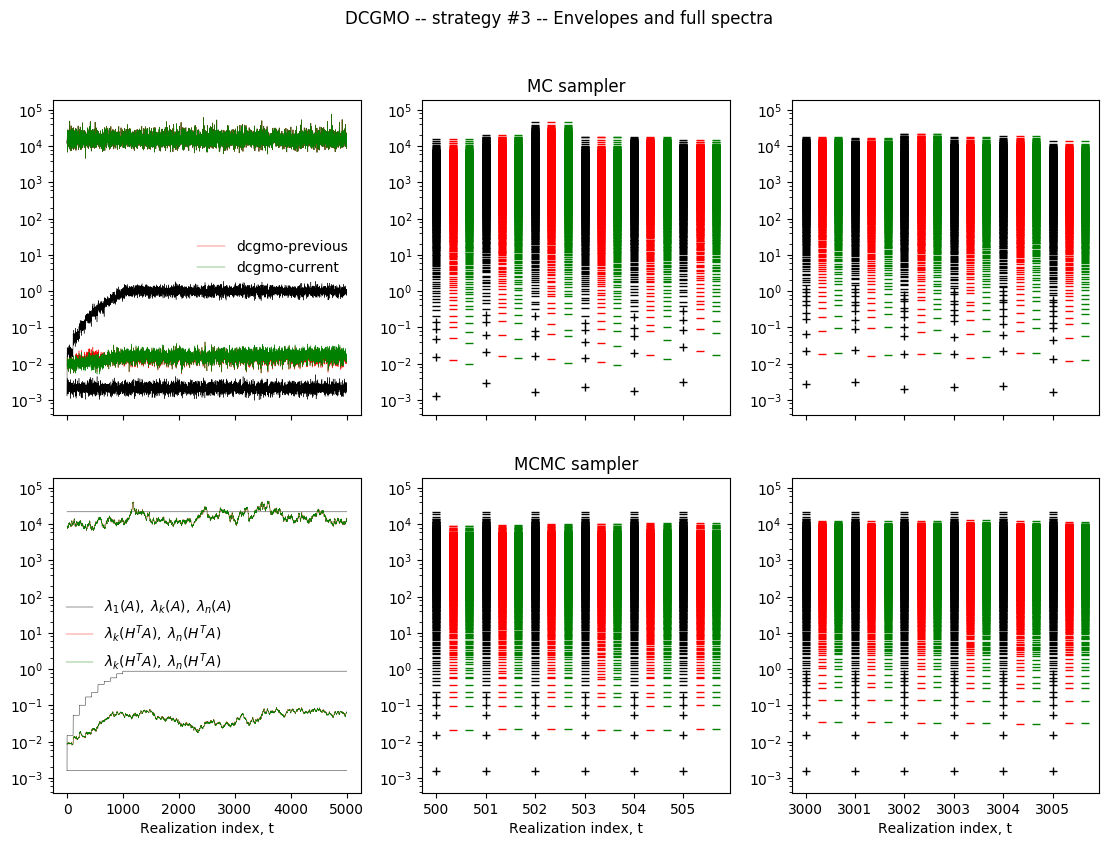
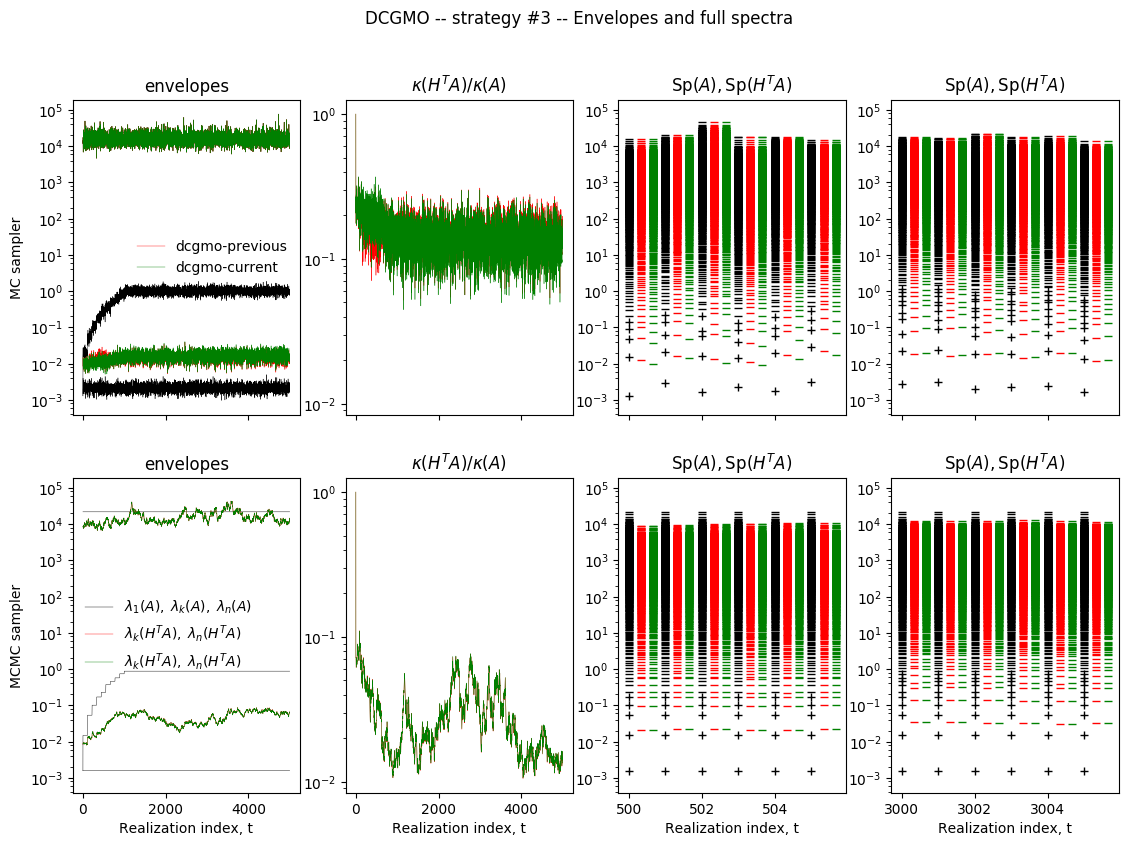
first-commit

diff --git a/examples/example05_recycler_plot.py b/examples/example05_recycler_plot.py
@@ -43,70 +43,93 @@ def plot(smp=None, smp_SpA=None, dcgmo_SpHtA=None, dcgmo_kdim=None, case=None):
     smp, smp_SpA, dcgmo_SpHtA, dcgmo_kdim = load_data(case)
 
   n = smp["mc"].n
-  fig, ax = pl.subplots(2, 3, figsize=(13.5,9), sharex="col")
+  fig, ax = pl.subplots(2, 4, figsize=(13.5,9), sharex="col")
   strategy_name = {"a":"strategy #1", "b":"strategy #2", "c":"strategy #3"}
   fig.suptitle("DCGMO -- %s -- Envelopes and full spectra" %strategy_name[case])
   # Enveloppes
-  ax[0,1].set_title("MC sampler")
+  ax[0,0].set_ylabel("MC sampler")
+  ax[0,0].set_title("envelopes")
   _dcgmo = ("mc", "previous", 0)
   SpA_0, SpA_k, SpA_n = get_envelopes_A(smp_SpA["mc"], dcgmo_kdim[_dcgmo])
+  cond_A = np.array(SpA_n)/np.array(SpA_0)
   ax[0,0].semilogy(SpA_0, "k", lw=lw)
   ax[0,0].semilogy(SpA_k, "k", lw=lw)
   ax[0,0].semilogy(SpA_n, "k", lw=lw)
   SpHtA_k, SpHtA_n = get_envelopes_HtA(dcgmo_SpHtA[_dcgmo], dcgmo_kdim[_dcgmo])
+  cond_HtA = np.concatenate(([cond_A[0]],np.array(SpHtA_n[1:])/np.array(SpHtA_k[1:])))
   ax[0,0].semilogy(SpHtA_k, "r", lw=lw, label="dcgmo-previous")
   ax[0,0].semilogy(SpHtA_n, "r", lw=lw)
+  ax[0,1].set_title(r"$\kappa(H^TA)/\kappa(A)$")
+  ax[0,1].semilogy(cond_HtA/cond_A, "r", lw=lw)
   _dcgmo = ("mc", "current", 0)
   SpHtA_k, SpHtA_n = get_envelopes_HtA(dcgmo_SpHtA[_dcgmo], dcgmo_kdim[_dcgmo])
+  cond_HtA = np.concatenate(([cond_A[0]],np.array(SpHtA_n[1:])/np.array(SpHtA_k[1:])))
   ax[0,0].semilogy(SpHtA_k, "g", lw=lw, label="dcgmo-current")
   ax[0,0].semilogy(SpHtA_n, "g", lw=lw)
+  ax[0,1].set_title(r"$\kappa(H^TA)/\kappa(A)$")
+  ax[0,1].semilogy(cond_HtA/cond_A, "g", lw=lw)
   ax[0,0].legend(frameon=False)
   # Snapshot #1
+  ax[0,2].set_title(r"$\mathrm{Sp}(A), \mathrm{Sp}(H^TA)$")
   for i in range(500,506):
-    kdim = dcgmo_kdim[("mc", "previous", 0)][i]
-    ax[0,1].semilogy((n-kdim)*[i], smp_SpA["mc"][i][kdim:], "k_", markersize=6)
-    ax[0,1].semilogy(kdim*[i], smp_SpA["mc"][i][:kdim], "k+", markersize=6)
-    ax[0,1].semilogy((n-kdim)*[i+.33], dcgmo_SpHtA[("mc", "previous", 0)][i][kdim:], "r_", markersize=6)
-    ax[0,1].semilogy((n-kdim)*[i+.66], dcgmo_SpHtA[("mc", "current", 0)][i][kdim:], "g_", markersize=6)
-  # Snapshot #2
-  for i in range(3000,3006):
     kdim = dcgmo_kdim[("mc", "previous", 0)][i]
     ax[0,2].semilogy((n-kdim)*[i], smp_SpA["mc"][i][kdim:], "k_", markersize=6)
     ax[0,2].semilogy(kdim*[i], smp_SpA["mc"][i][:kdim], "k+", markersize=6)
     ax[0,2].semilogy((n-kdim)*[i+.33], dcgmo_SpHtA[("mc", "previous", 0)][i][kdim:], "r_", markersize=6)
     ax[0,2].semilogy((n-kdim)*[i+.66], dcgmo_SpHtA[("mc", "current", 0)][i][kdim:], "g_", markersize=6)
-  ax[0,1].set_ylim(ax[0,0].get_ylim()); ax[0,2].set_ylim(ax[0,0].get_ylim())  
+  # Snapshot #2
+  ax[0,3].set_title(r"$\mathrm{Sp}(A), \mathrm{Sp}(H^TA)$")
+  for i in range(3000,3006):
+    kdim = dcgmo_kdim[("mc", "previous", 0)][i]
+    ax[0,3].semilogy((n-kdim)*[i], smp_SpA["mc"][i][kdim:], "k_", markersize=6)
+    ax[0,3].semilogy(kdim*[i], smp_SpA["mc"][i][:kdim], "k+", markersize=6)
+    ax[0,3].semilogy((n-kdim)*[i+.33], dcgmo_SpHtA[("mc", "previous", 0)][i][kdim:], "r_", markersize=6)
+    ax[0,3].semilogy((n-kdim)*[i+.66], dcgmo_SpHtA[("mc", "current", 0)][i][kdim:], "g_", markersize=6)
+  ax[0,2].set_ylim(ax[0,0].get_ylim()); ax[0,3].set_ylim(ax[0,0].get_ylim())  
 
   # Enveloppes
-  ax[1,1].set_title("MCMC sampler")
+  ax[1,0].set_ylabel("MCMC sampler")
+  ax[1,0].set_title("envelopes")
   SpA_0, SpA_k, SpA_n = get_envelopes_A(smp_SpA["mcmc"], dcgmo_kdim[_dcgmo])
+  cond_A = np.array(SpA_n)/np.array(SpA_0)
   ax[1,0].semilogy(SpA_0, "k", lw=lw, label=r"$\lambda_{1}(A),\;\lambda_{k}(A),\;\lambda_{n}(A)$")
   ax[1,0].semilogy(SpA_k, "k", lw=lw)
   ax[1,0].semilogy(SpA_n, "k", lw=lw)
   _dcgmo = ("mcmc", "previous", 0)
   SpHtA_k, SpHtA_n = get_envelopes_HtA(dcgmo_SpHtA[_dcgmo], dcgmo_kdim[_dcgmo])
+  cond_HtA = np.concatenate(([cond_A[0]],np.array(SpHtA_n[1:])/np.array(SpHtA_k[1:])))
   ax[1,0].semilogy(SpHtA_k, "r", lw=lw, label=r"$\lambda_{k}(H^TA),\;\lambda_{n}(H^TA)$")
   ax[1,0].semilogy(SpHtA_n, "r", lw=lw)
+  ax[1,1].set_title(r"$\kappa(H^TA)/\kappa(A)$")
+  ax[1,1].semilogy(cond_HtA/cond_A, "r", lw=lw)
   _dcgmo = ("mcmc", "current", 0)
   SpHtA_k, SpHtA_n = get_envelopes_HtA(dcgmo_SpHtA[_dcgmo], dcgmo_kdim[_dcgmo])
   ax[1,0].semilogy(SpHtA_k, "g", lw=lw, label=r"$\lambda_{k}(H^TA),\;\lambda_{n}(H^TA)$")
   ax[1,0].semilogy(SpHtA_n, "g", lw=lw)
+  cond_HtA = np.concatenate(([cond_A[0]],np.array(SpHtA_n[1:])/np.array(SpHtA_k[1:])))
+  ax[1,1].semilogy(cond_HtA/cond_A, "g", lw=lw)
   ax[1,0].legend(frameon=False)
   # Snapshot #1
+  ax[1,2].set_title(r"$\mathrm{Sp}(A), \mathrm{Sp}(H^TA)$")
   for i in range(500,506):
-    kdim = dcgmo_kdim[("mcmc", "previous", 0)][i]
-    ax[1,1].semilogy((n-kdim)*[i], smp_SpA["mcmc"][i][kdim:], "k_", markersize=6)
-    ax[1,1].semilogy(kdim*[i], smp_SpA["mcmc"][i][:kdim], "k+", markersize=6)
-    ax[1,1].semilogy((n-kdim)*[i+.33], dcgmo_SpHtA[("mcmc", "previous", 0)][i][kdim:], "r_", markersize=6)
-    ax[1,1].semilogy((n-kdim)*[i+.66], dcgmo_SpHtA[("mcmc", "current", 0)][i][kdim:], "g_", markersize=6)
-  # Snapshot #2
-  for i in range(3000,3006):
     kdim = dcgmo_kdim[("mcmc", "previous", 0)][i]
     ax[1,2].semilogy((n-kdim)*[i], smp_SpA["mcmc"][i][kdim:], "k_", markersize=6)
     ax[1,2].semilogy(kdim*[i], smp_SpA["mcmc"][i][:kdim], "k+", markersize=6)
     ax[1,2].semilogy((n-kdim)*[i+.33], dcgmo_SpHtA[("mcmc", "previous", 0)][i][kdim:], "r_", markersize=6)
     ax[1,2].semilogy((n-kdim)*[i+.66], dcgmo_SpHtA[("mcmc", "current", 0)][i][kdim:], "g_", markersize=6)
-  ax[1,0].set_ylim(ax[0,0].get_ylim()); ax[1,1].set_ylim(ax[0,0].get_ylim()); ax[1,2].set_ylim(ax[0,0].get_ylim())
-  for j in range(3):
+  # Snapshot #2
+  ax[1,3].set_title(r"$\mathrm{Sp}(A), \mathrm{Sp}(H^TA)$")
+  for i in range(3000,3006):
+    kdim = dcgmo_kdim[("mcmc", "previous", 0)][i]
+    ax[1,3].semilogy((n-kdim)*[i], smp_SpA["mcmc"][i][kdim:], "k_", markersize=6)
+    ax[1,3].semilogy(kdim*[i], smp_SpA["mcmc"][i][:kdim], "k+", markersize=6)
+    ax[1,3].semilogy((n-kdim)*[i+.33], dcgmo_SpHtA[("mcmc", "previous", 0)][i][kdim:], "r_", markersize=6)
+    ax[1,3].semilogy((n-kdim)*[i+.66], dcgmo_SpHtA[("mcmc", "current", 0)][i][kdim:], "g_", markersize=6)
+  ax[1,0].set_ylim(ax[0,0].get_ylim()); ax[1,2].set_ylim(ax[0,0].get_ylim()); ax[1,3].set_ylim(ax[0,0].get_ylim())
+  ylim0 = ax[0,1].get_ylim(); ylim1 = ax[1,1].get_ylim()
+  ylim = (min(ylim0[0], ylim1[0]), max(ylim0[1], ylim1[1]))
+  ax[0,1].set_ylim(ylim); ax[1,1].set_ylim(ylim)
+  for j in range(4):
     ax[1,j].set_xlabel("Realization index, t")
   pl.savefig(figures_path+"example05_recycler_"+case+".png", bbox_inches='tight')
+  #pl.show()

diff --git a/README.tex.md b/README.tex.md
@@ -616,7 +616,7 @@ while (smp["mcmc"].cnt_accepted_proposals <= nsmp):
           dcgmo_SpHtA[_dcgmo] += [np.array(smp["mcmc"].n*[None])]
 
     print("%d/%d" %(smp["mcmc"].cnt_accepted_proposals+1, nsmp))
-
+ 
 save_data(smp, smp_SpA, dcgmo_SpHtA, dcgmo_kdim, case)
 plot(case=case)
 ```
